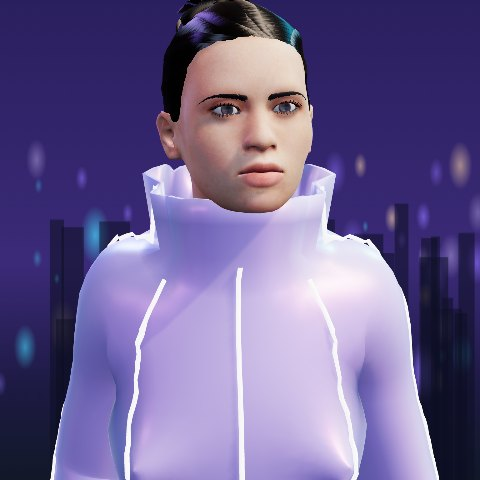
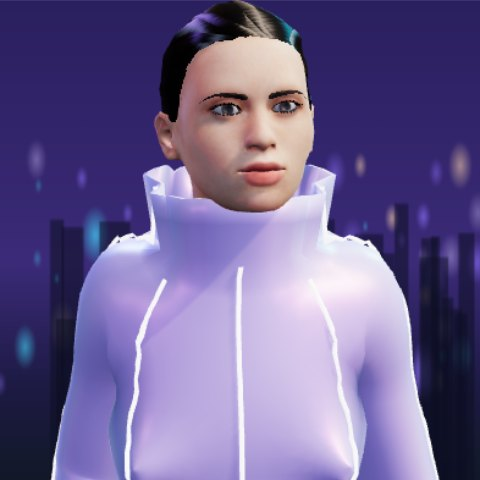
Phone overlays and prettier faces
- World View: labels stay on screen, below the search bar and clear of the zoom tools; colliding labels shrink to their icon
- Onboarding: the flyover caption no longer overlaps the Make-it-yours card or avatar picker
- Faces: soft rose lip tint and faint lids instead of red lips and dark eyeliner; brows lighter than the hair; balanced
  proportions (larger eyes, softer nose, rounder head) for the female ready-made avatars; calmer eye reflections
- Messy bun retired (it showed broken patches from behind); Sofia wears a sleek ponytail; Mei a long bob that shows her face
- Removed duplicate keys in avatar presets (an old eye colour overrode the new one); new card portraits

diff --git a/world/avatar.js b/world/avatar.js
@@ -25,7 +25,7 @@ function augmentCatalog(cat) {
   // modelled in Blender on the avatar body (blender/signature_outfit.py): cropped jacket with stand collar and light piping, wide cargo trousers, belt
   cat.parts.outfit.unshift({ id: 'signature_f', label: 'Signature · iridescent', file: 'parts/outfit_signature01.glb', mesh: 'outfit__signature01', style: 'signature2',
     hideCompose: [{ bit: cat.hideBits.female_elegantsuit01 }, { bit: cat.hideBits.male_elegantsuit01 }] });
-  const pt = cat.parts.hair.find(p => p.id === 'ponytail01'); if (pt) cat.parts.hair.splice(cat.parts.hair.indexOf(pt) + 1, 0, { ...pt, id: 'bun01', label: 'Messy bun', bun: true });
+  // (the procedural 'Messy bun' is retired until it is modelled properly; saved bun looks fall back to the ponytail)
   return cat;
 }
 const pearlCache = {};
@@ -135,7 +135,7 @@ function skinWithMakeup(tex, body, look) {
   const R = regionsFor(body), L = document.createElement('canvas'); L.width = W; L.height = H; const lg = L.getContext('2d');
   const fill = (tris, col) => { lg.fillStyle = col; lg.beginPath(); for (const t of tris) { lg.moveTo(t[0] * W, t[1] * H); lg.lineTo(t[2] * W, t[3] * H); lg.lineTo(t[4] * W, t[5] * H); lg.closePath(); } lg.fill(); };
   const bold = look === 'bold';
-  fill(R.lips, bold ? 'rgba(150,30,70,0.85)' : 'rgba(175,70,90,0.6)'); fill(R.lids, bold ? 'rgba(85,50,150,0.85)' : 'rgba(110,70,125,0.65)');
+  fill(R.lips, bold ? 'rgba(150,30,70,0.8)' : 'rgba(214,128,132,0.34)'); fill(R.lids, bold ? 'rgba(85,50,150,0.75)' : 'rgba(176,140,150,0.14)');
   g.save(); g.filter = `blur(${Math.max(2, W / 600)}px)`; g.globalCompositeOperation = 'multiply'; g.drawImage(L, 0, 0); g.restore();
   const t = new THREE.CanvasTexture(c); t.flipY = tex.flipY; t.colorSpace = THREE.SRGBColorSpace; t.anisotropy = 8; return (makeupCache[k] = t);
 }
@@ -151,11 +151,11 @@ export const PRESETS = {
 };
 // ready-made avatars offered during onboarding (portraits in assets/ui/avatars are renders of these exact configs)
 export const READY = [
-  { id: 'sofia', name: 'Sofia', cfg: { makeup: 'natural', pres: -0.85, build: -0.12, muscle: 0.22, skin: 'young_caucasian_female', tone: 0.02, hair: 'bun01', hairColor: '#2b1c14', brows: 'eyebrow001', eyes: '#4a2f1d', cheekbones: 0.35, lipsFull: 0.3, eyesBig: 0.12, outfit: 'signature_f', outfitTint: '#ffffff', shoes: 'shoes03', shoesTint: '#f6f4fa', glasses: 'none', hat: 'none' } },
-  { id: 'layla', name: 'Layla', cfg: { pres: -0.85, build: -0.1, muscle: 0.25, skin: 'young_asian_female', tone: -0.04, hair: 'long01', hairColor: '#1b1411', brows: 'eyebrow006', outfit: 'talentopia_f', outfitTint: '#ffffff', shoes: 'shoes06', cheekbones: 0.55, lipsFull: 0.35, eyesBig: 0.2, jawWide: 0, makeup: 'natural', eyes: '#5b3a22' } },
-  { id: 'aria', name: 'Aria', cfg: { makeup: 'natural', pres: -0.8, build: -0.05, muscle: 0.25, skin: 'young_african_female', hair: 'long01', hairColor: '#141012', brows: 'eyebrow001', outfit: 'female_elegantsuit01', outfitTint: '#5f6f9a', shoes: 'shoes01', cheekbones: 0.45, eyes: '#5b3a22' } },
+  { id: 'sofia', name: 'Sofia', cfg: { eyesBig: 0.38, eyesUp: 0.12, nose: -0.3, cheekbones: 0.42, lipsFull: 0.28, jawWide: 0, chinStrong: 0, head: -0.18, makeup: 'natural', pres: -0.85, build: -0.12, muscle: 0.22, skin: 'young_caucasian_female', tone: 0.02, hair: 'ponytail01', hairColor: '#2b1c14', brows: 'eyebrow001', eyes: '#4a2f1d', outfit: 'signature_f', outfitTint: '#ffffff', shoes: 'shoes03', shoesTint: '#f6f4fa', glasses: 'none', hat: 'none' } },
+  { id: 'layla', name: 'Layla', cfg: { eyesBig: 0.38, eyesUp: 0.12, nose: -0.3, cheekbones: 0.42, lipsFull: 0.28, jawWide: 0, chinStrong: 0, head: -0.18, pres: -0.85, build: -0.1, muscle: 0.25, skin: 'young_asian_female', tone: -0.04, hair: 'long01', hairColor: '#1b1411', brows: 'eyebrow006', outfit: 'talentopia_f', outfitTint: '#ffffff', shoes: 'shoes06', makeup: 'natural', eyes: '#5b3a22' } },
+  { id: 'aria', name: 'Aria', cfg: { eyes: '#3a2416', eyesBig: 0.38, eyesUp: 0.12, nose: -0.3, cheekbones: 0.42, lipsFull: 0.28, jawWide: 0, chinStrong: 0, head: -0.18, makeup: 'natural', pres: -0.8, build: -0.05, muscle: 0.25, skin: 'young_african_female', hair: 'long01', hairColor: '#141012', brows: 'eyebrow001', outfit: 'female_elegantsuit01', outfitTint: '#5f6f9a', shoes: 'shoes01'} },
   { id: 'leo', name: 'Leo', cfg: { pres: 0.85, build: 0.05, muscle: 0.5, skin: 'young_caucasian_male', hair: 'short02', hairColor: '#5a3a24', brows: 'eyebrow006', beard: 'stubble', outfit: 'male_casualsuit03', outfitTint: '#ffffff', shoes: 'shoes03', jawWide: 0.4, chinStrong: 0.3, eyes: '#3a6ea8' } },
-  { id: 'mei', name: 'Mei', cfg: { makeup: 'natural', pres: -0.7, build: -0.1, muscle: 0.2, skin: 'young_asian_female', hair: 'bob01', hairColor: '#141012', brows: 'eyebrow001', outfit: 'female_casualsuit01', outfitTint: '#ffffff', shoes: 'shoes03', glasses: 'round', eyes: '#5b3a22' } },
+  { id: 'mei', name: 'Mei', cfg: { eyesBig: 0.38, eyesUp: 0.12, nose: -0.3, cheekbones: 0.42, lipsFull: 0.28, jawWide: 0, chinStrong: 0, head: -0.18, makeup: 'natural', pres: -0.7, build: -0.1, muscle: 0.2, skin: 'young_asian_female', hair: 'bob02', hairColor: '#141012', brows: 'eyebrow001', outfit: 'female_casualsuit01', outfitTint: '#ffffff', shoes: 'shoes03', glasses: 'round', eyes: '#5b3a22' } },
   { id: 'omar', name: 'Omar', cfg: { pres: 0.8, build: 0.15, muscle: 0.45, skin: 'young_asian_male', hair: 'short01', hairColor: '#141012', brows: 'eyebrow006', beard: 'full', outfit: 'male_elegantsuit01', outfitTint: '#6b6f78', shoes: 'shoes03', jawWide: 0.35, eyes: '#5b3a22' } },
   { id: 'kai', name: 'Kai', cfg: { pres: 0.1, build: 0, muscle: 0.35, skin: 'young_african_male', hair: 'short04', hairColor: '#141012', brows: 'eyebrow001', outfit: 'talentopia_m', outfitTint: '#ffffff', shoes: 'shoes03', glasses: 'rect', eyes: '#5b3a22' } },
 ];
@@ -175,7 +175,7 @@ function prepMaterial(o) {
     const lash = /eyelash|lashes/.test(n) || /^lashes__/.test(o.name);
     if ((eye || (cards && !lash)) && !m.isMeshPhysicalMaterial) {
       const p = new THREE.MeshPhysicalMaterial(); THREE.MeshStandardMaterial.prototype.copy.call(p, m); p.name = m.name;
-      if (eye) { p.clearcoat = 1; p.clearcoatRoughness = 0.02; p.roughness = 0.2; p.envMapIntensity = 1.7; } // wet cornea highlight
+      if (eye) { p.clearcoat = 1; p.clearcoatRoughness = 0.03; p.roughness = 0.3; p.envMapIntensity = 0.9; } // wet cornea highlight
       else { p.sheen = 0.55; p.sheenRoughness = 0.38; p.sheenColor = new THREE.Color(0x8a7b6c); p.roughness = 0.5; } // silky strands
       if (Array.isArray(o.material)) o.material[o.material.indexOf(m)] = p; else o.material = p;
     }
@@ -384,7 +384,7 @@ export class AvatarModel {
     const tail = i => { v.fromBufferAttribute(pos, i); const behind = (v.z - hc.z) * f; return v.y < hc.y - 0.105 || (v.y < hc.y - 0.035 && behind < -0.06); };
     const idx = g0.index.array, keepIdx = []; let topY = -1e9, backZ = hc.z;
     for (let i = 0; i < pos.count; i++) { v.fromBufferAttribute(pos, i); if (v.y > topY) topY = v.y; if (v.y > hc.y && (v.z - hc.z) * f < (backZ - hc.z) * f) backZ = v.z; }
-    for (let i = 0; i < idx.length; i += 3) if (!(tail(idx[i]) && tail(idx[i + 1]) && tail(idx[i + 2]))) keepIdx.push(idx[i], idx[i + 1], idx[i + 2]);
+    for (let i = 0; i < idx.length; i += 3) if (!(tail(idx[i]) || tail(idx[i + 1]) || tail(idx[i + 2]))) keepIdx.push(idx[i], idx[i + 1], idx[i + 2]);
     const g = new THREE.BufferGeometry(); for (const k in g0.attributes) g.setAttribute(k, g0.attributes[k]); g.morphAttributes = g0.morphAttributes; g.morphTargetsRelative = g0.morphTargetsRelative; g.setIndex(keepIdx);
     g.boundingSphere = g0.boundingSphere; s.geometry = g;
     const up = new THREE.Vector3(0, 0.62, -0.78 * f).normalize(), back = new THREE.Vector3(0, 0.78, 0.62 * f).normalize(), side = new THREE.Vector3(1, 0, 0);
@@ -395,6 +395,7 @@ export class AvatarModel {
     const down = new THREE.Vector3(0, -1, 0), fr = new THREE.Vector3(0, 0, f);
   }
   async apply() {
+    if (this.cfg.hair === 'bun01') this.cfg.hair = 'ponytail01';
     const c = this.cfg, kinds = { hair: c.hair, outfit: c.outfit, shoes: c.shoes, hat: c.hat };
     await Promise.all(Object.entries(kinds).map(([k, id]) => id && id !== 'none' ? this.loadPart(k, id) : null));
     for (const key in this.partMeshes) { const [k, id] = key.split(':'); const on = kinds[k] === id; for (const m of this.partMeshes[key]) m.visible = on; }
@@ -446,7 +447,7 @@ export class AvatarModel {
       }
     }
     for (const m of this.meshes) {
-      if (/^brows__/.test(m.name)) { for (const mt of [].concat(m.material)) { if (mt.map && !mt.userData.gray) { mt.map = grayCached(mt.map); mt.userData.gray = true; } mt.color.copy(hairC).multiplyScalar(0.8); } }
+      if (/^brows__/.test(m.name)) { for (const mt of [].concat(m.material)) { if (mt.map && !mt.userData.gray) { mt.map = grayCached(mt.map); mt.userData.gray = true; } mt.color.copy(hairC).lerp(new THREE.Color(0x7a5a46), 0.38); } }
       if (/^beard__/.test(m.name)) { for (const mt of [].concat(m.material)) { if (!mt.userData.strands) { const dn = /full/.test(m.name); mt.map = shared.strands[dn] || (shared.strands[dn] = strandsTex(dn)); mt.alphaTest = 0; mt.alphaHash = true; mt.transparent = false; mt.userData.strands = true; mt.roughness = 0.9; mt.needsUpdate = true; } mt.color.copy(hairC).multiplyScalar(0.9); } }
       if (/^eyes__/.test(m.name) && this._eyes !== c.eyes) { for (const mt of [].concat(m.material)) if (mt.map && mt.map.image) { const src = mt.map.userData.src || mt.map.image; const k = c.eyes; if (!shared.iris[k]) { const t0 = mt.map; t0.userData.src = src; shared.iris[k] = recolorIris(t0, k); } mt.map = shared.iris[k]; mt.needsUpdate = true; } }
     }

diff --git a/world/worldview.js b/world/worldview.js
@@ -90,6 +90,24 @@ export class WorldView {
     this.labels.querySelectorAll('[data-d]').forEach(b => b.onclick = e => { e.stopPropagation(); this.focusDistrict(b.dataset.d); });
     this.labels.querySelectorAll('[data-f]').forEach(b => b.onclick = e => { e.stopPropagation(); this.focusBuilding(b.dataset.f); });
   }
+  // keep labels readable on phones: inside the screen, below the search bar, clear of the zoom tools; colliding labels shrink to their icon, then hide
+  declutter(W, H) {
+    const topEl = document.querySelector('.wv-top'), tools = document.querySelector('.wv-tools'), back = document.querySelector('.wv-back');
+    const top = topEl ? topEl.getBoundingClientRect().bottom + 6 : 90, tr = tools ? tools.getBoundingClientRect() : null, br = back ? back.getBoundingClientRect() : null;
+    const sheet = this.sheet && this.sheet.classList.contains('open') ? this.sheet.getBoundingClientRect().top : H;
+    const placed = [], items = [...this.labels.querySelectorAll('.wv-lbl, .wv-bld')].filter(b => b.style.display !== 'none');
+    items.sort((a, b) => (b.classList.contains('on') - a.classList.contains('on')) || (a.classList.contains('wv-lbl') - b.classList.contains('wv-lbl')) * (this.level === 'city' ? -1 : 1));
+    const hit = r => placed.some(q => r.l < q.r + 4 && r.r > q.l - 4 && r.t < q.b + 3 && r.b > q.t - 3) || (tr && r.r > tr.left - 4 && r.t < tr.bottom && r.b > tr.top) || (br && r.b > br.top - 4 && r.r > br.left && r.l < br.right);
+    for (const b of items) {
+      b.classList.remove('mini'); const m = /translate\(([-\d.]+)px,\s*([-\d.]+)px\)/.exec(b.style.transform); if (!m) continue;
+      const ax = +m[1], ay = +m[2], dist = b.classList.contains('wv-lbl'); const rect = () => { const w = b.offsetWidth, h = b.offsetHeight; let x = Math.min(Math.max(ax, w / 2 + 8), W - w / 2 - 8);
+        const yTop = dist ? ay - h / 2 : ay - h; const r = { l: x - w / 2, r: x + w / 2, t: yTop, b: yTop + h, x }; return r; };
+      let r = rect();
+      if (r.t < top || r.b > sheet - 4) { b.style.display = 'none'; continue; }
+      if (hit(r)) { b.classList.add('mini'); r = rect(); if (hit(r)) { b.style.display = 'none'; b.classList.remove('mini'); continue; } }
+      b.style.transform = `translate(${r.x}px,${ay}px) translate(-50%,${dist ? '-50%' : '-100%'})`; placed.push(r);
+    }
+  }
   placeLabels() {
     const cam = this.d.camera, W = innerWidth, H = innerHeight, o = this.o; const v = this.v;
     const showBld = o.dist < 520, showDist = o.dist > 140;
@@ -99,6 +117,7 @@ export class WorldView {
     this.labels.querySelectorAll('[data-f]').forEach(b => { const f = this.d.FEATURED().find(q => q.id === b.dataset.f); if (!f) { b.style.display = 'none'; return; }
       v.set((f.x0 + f.x1) / 2, (f.gfH || 5) + 10, (f.z0 + f.z1) / 2).project(cam); const on = showBld && v.z < 1 && Math.abs(v.x) < 1.05 && Math.abs(v.y) < 1.05;
       b.style.display = on ? '' : 'none'; if (on) b.style.transform = `translate(${(v.x + 1) / 2 * W}px,${(1 - v.y) / 2 * H}px) translate(-50%,-100%)`; b.classList.toggle('on', this.selBuilding === f.id); });
+    this.declutter(W, H);
     const me = document.getElementById('wvMe'), p = this.d.playerPos(); if (me && p) { v.set(p.x, p.y + 2, p.z).project(cam); const on = v.z < 1 && Math.abs(v.x) < 1 && Math.abs(v.y) < 1; me.style.display = on ? '' : 'none'; if (on) me.style.transform = `translate(${(v.x + 1) / 2 * W}px,${(1 - v.y) / 2 * H}px) translate(-50%,-100%)`; }
   }
   // ------------------------------------------------------------ district / building focus

diff --git a/ui/v3.css b/ui/v3.css
@@ -385,3 +385,7 @@ i:has(>.d-ic),.sh-ic:has(>.d-ic){background:#fff!important;box-shadow:inset 0 0 
 .ob-chips button img{width:26px;height:26px;flex:0 0 auto}
 .ob-chips button.on{border-color:var(--violet);background:rgba(141,112,255,.12);box-shadow:0 0 0 3px rgba(141,112,255,.16)}.ob-chips button:active{transform:scale(.97)}
 @media (min-width:761px){.ob-chips{grid-template-columns:1fr 1fr}}
+/* World View: colliding labels shrink to their icon */
+.wv-lbl.mini span{display:none}.wv-lbl.mini{padding:4px!important}.wv-bld.mini{font-size:0;padding:5px!important;gap:0}
+/* onboarding: the flyover caption never sits on the Make-it-yours card or the avatar picker */
+body:has(#obAbout:not([hidden])) #flyCap,body.in-studio #flyCap{display:none!important}
